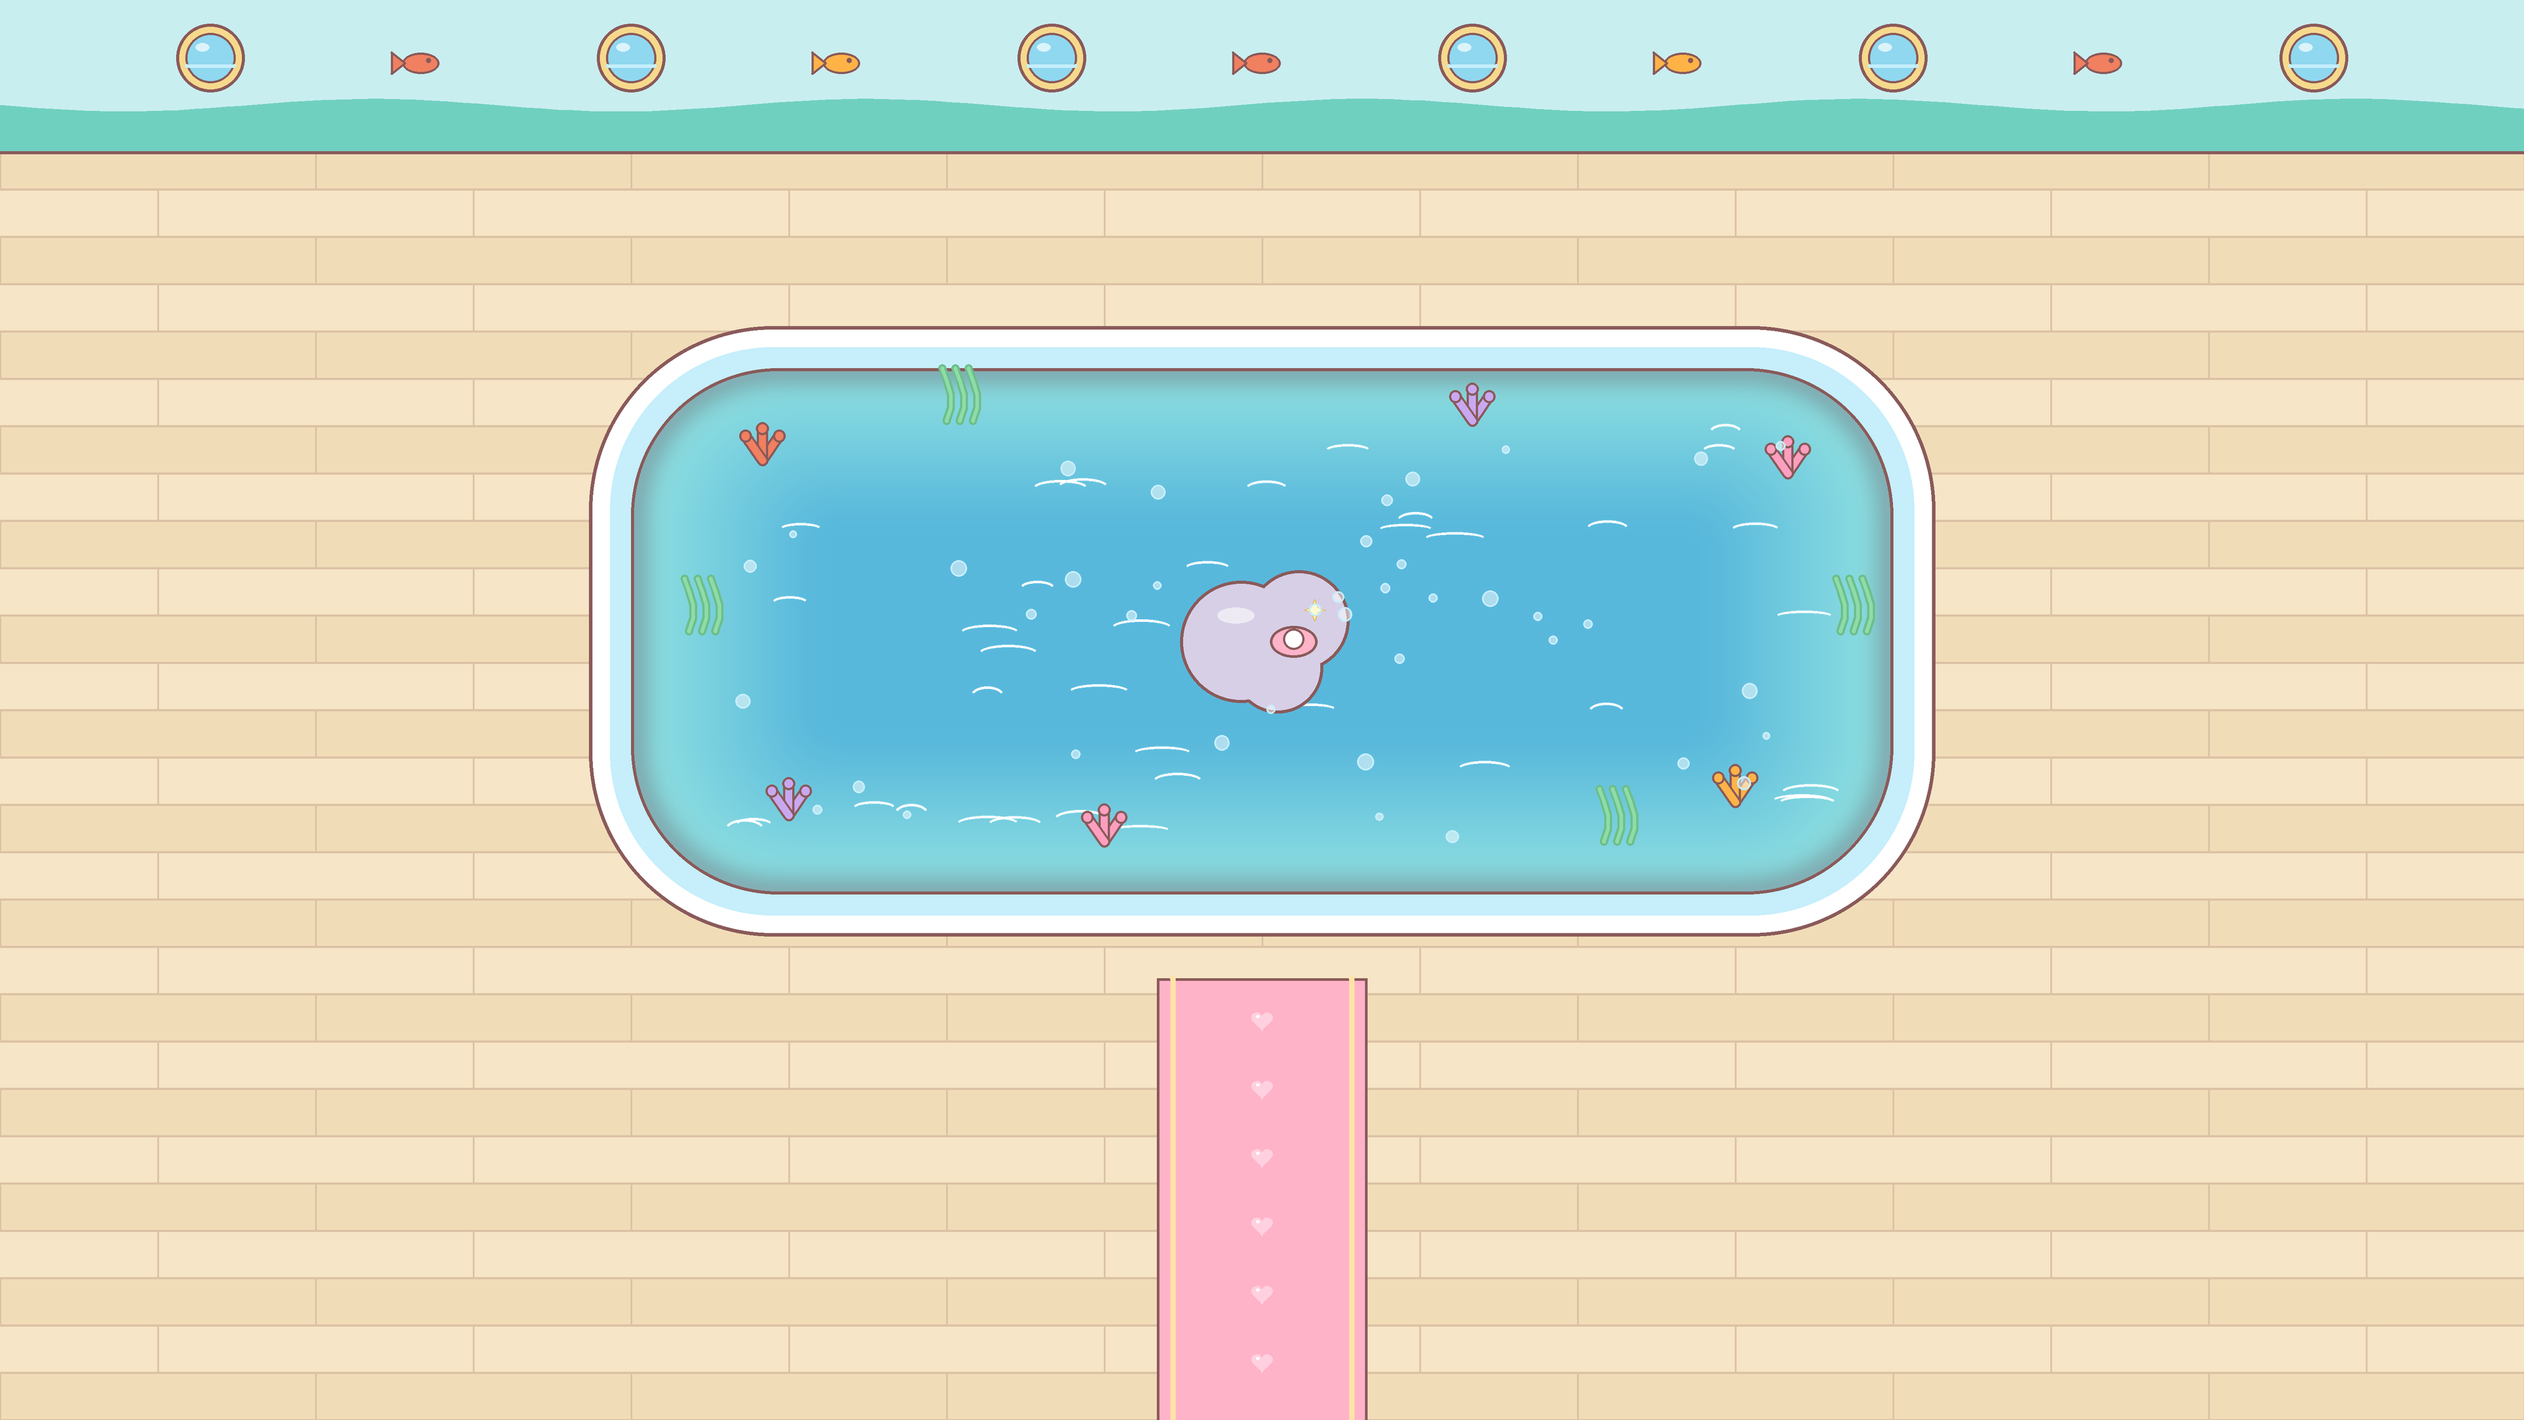
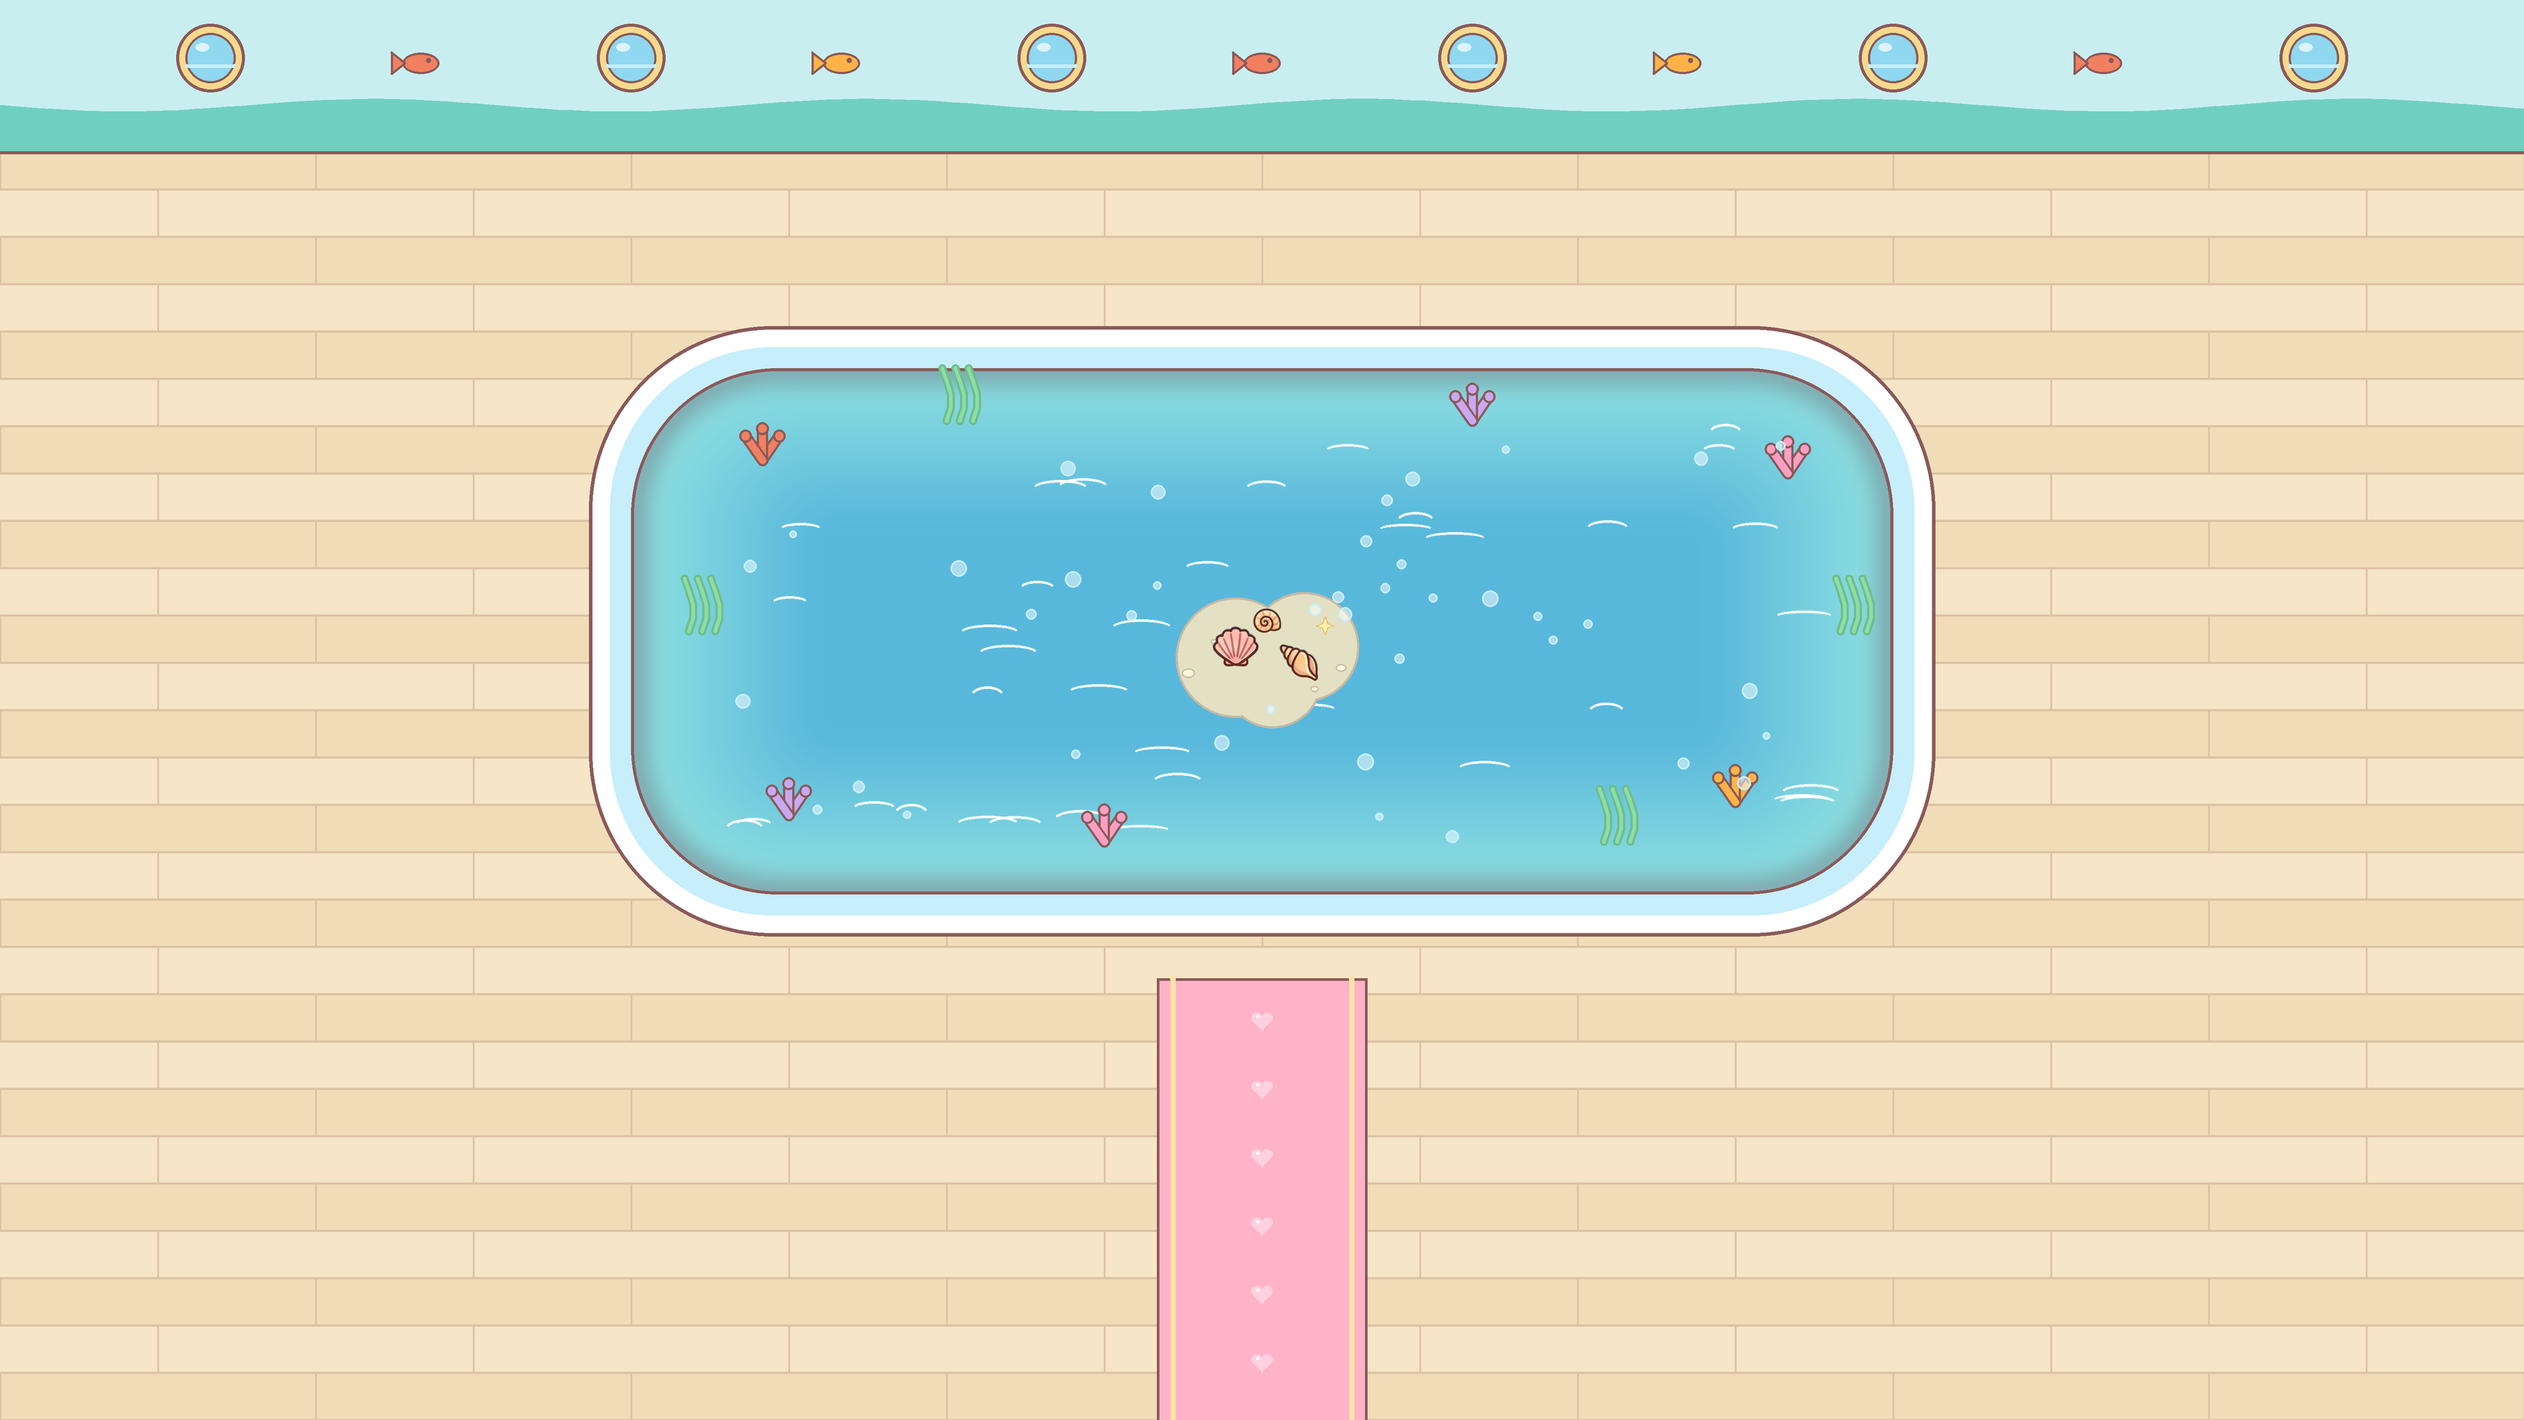
Florida water: the beach surf is an animated sheet (sea_foam, 6 frames, foam line and wash lapping over the wet sand, dock cut out) played over the background; the aquarium pool's lavender blob is replaced by a sand patch holding the canon shells cut at sheet resolution (florida_draw.canon_prop)

Changed region(s): [[0.4688, 0.4032, 0.5625, 0.5273]]

diff --git a/tools/gen_florida_art.py b/tools/gen_florida_art.py
@@ -25,6 +25,13 @@ Outputs, all in project/assets/florida/:
   fish.png + fish.tres: frame 16x12 world px (64x48 texture); rows 0 coral, 1 mango, 2 lilac; columns 0-2 swim
       (tail wiggle), 3 fin wave. Animations swim_<colour> (frames 0,1,2,1 at 5 fps) and
       wave_<colour> (frames 3,0 at 2 fps). Faces right; anchor: frame centre.
+  sea_foam.png + sea_foam.tres: the beach's surf line, animated. Frame 960x120 world px
+      (3840x480 texture), one frame per row, rows 0-5 (one column); animation "lap" plays
+      rows 0-5 at 5 fps, looping: the foam line and a turquoise wash slide up to 7 world px
+      over the wet sand and back. Placed at world (0, 180) over bg_florida_beach, top-left
+      anchor; the dock is cut out so its posts stay on top.
+The aquarium pool's floor shows the canon shells (project/data/florida_canon.json 'props',
+cut at full resolution through tools/cut_island_props.py) on a little sand patch.
 """
 import json
 import math
@@ -690,13 +697,56 @@ def wavy(y0, amp, period, phase, x0=-10, x1=970, step=6):
             for x in range(x0, x1 + 1, step)]
 
 
+DOCK = (588, 624, 96, 284)  # x0, x1, top, bottom of the beach dock (world px)
+
+
+def beach_shore():
+    """The beach's water line, pulled up on the right where the aquarium stands on its sandy point."""
+    return [(x, y - 60 * min(1, max(0, (x - 760) / 80))) for x, y in wavy(268, 6, 220, 0.6)]
+
+
+FOAM_Y, FOAM_H, FOAM_FRAMES = 180, 120, 6
+
+
+def sea_foam_sheet():
+    """The surf on the beach: per frame the foam line and a turquoise wash sit d world px further
+    up the wet sand (d eases 0 -> 7 -> 0 over the loop), with a lighter second wave behind."""
+    shore = beach_shore()
+    back = wavy(262, 5, 180, 2.0, -10, 760)
+    fw, fh = 960 * fd.D, FOAM_H * fd.D
+    sheet = Image.new("RGBA", (fw, fh * FOAM_FRAMES))
+    dx0, dx1, dtop, dbot = DOCK
+    for k in range(FOAM_FRAMES):
+        rnd = random.Random(700 + k)
+        d = 7 * (1 - math.cos(2 * math.pi * k / FOAM_FRAMES)) / 2
+        im = Image.new("RGBA", (960 * BG_S, FOAM_H * BG_S))
+        p = Pen(im, BG_S, oy=-FOAM_Y)
+        edge = [(x, y + d) for x, y in shore]
+        p.poly([(x, y + 2) for x, y in shore] + list(reversed(edge)), fd.alpha("#9be6d6", 0x9a), 0)
+        p.line(edge, fd.alpha("#bfeee4", 0xe0), 6)
+        p.line([(x, y - 1) for x, y in edge], WHITE, 3.4)
+        for x, y in edge[::5]:
+            p.ell(x + rnd.uniform(-2, 2), y + 1, rnd.uniform(3, 5), 1.6, WHITE, 0)
+        for x, y in edge[2::9]:
+            p.ell(x, y - 3, 0.9, 0.9, fd.alpha(WHITE, 0xc0), 0)
+        p.line([(x, y - 9 + d * 0.5) for x, y in back], fd.alpha(WHITE, 0x90), 1.4)
+        # the dock stays on top: clear its planks and post tops from the strip
+        cp = Pen(im, BG_S, oy=-FOAM_Y)
+        cp.rect(dx0 - 0.6, FOAM_Y - 10, dx1 + 0.6, dbot + 0.6, (0, 0, 0, 0), 2, 0)
+        for y in range(dtop + 4, dbot, 36):
+            for x in (dx0 + 1, dx1 - 1):
+                cp.ell(x, y, 3.8, 3.8, (0, 0, 0, 0), 0)
+        sheet.alpha_composite(im.resize((fw, fh), Image.LANCZOS), (0, k * fh))
+    fd.save(sheet, "sea_foam")
+    fd.write_frames("sea_foam", 960, FOAM_H, [("lap", 0, [(0, r) for r in range(FOAM_FRAMES)], 5, True)])
+
+
 def beach_bg():
     """Sea across the top (deep blue to turquoise shallows), foam, wet sand, warm dry sand with
     starfish and shells, two towels, the dock out into the water, footprints, dune grass."""
     rnd = random.Random(101)
     g = Ground(fd.SAND)
-    # the shoreline, pulled up on the right where the aquarium stands on its sandy point
-    shore = [(x, y - 60 * min(1, max(0, (x - 760) / 80))) for x, y in wavy(268, 6, 220, 0.6)]
+    shore = beach_shore()
     bands = [(0, "#7ec3e6"), (70, "#88cdea"), (140, "#8fd6e8"), (200, "#86dccf"), (240, "#9be6d6")]
     sea = Image.new("RGBA", g.im.size)
     sp = Pen(sea, BG_S)
@@ -718,13 +768,9 @@ def beach_bg():
             p.sparkle(x, y, rnd.uniform(1.6, 2.8), WHITE, None)
     wet = [(x, y + 16) for x, y in shore]
     p.poly(shore + list(reversed(wet)), "#f3d9a6", 0)
-    p.line(shore, "#bfeee4", 7)
-    p.line([(x, y - 1) for x, y in shore], WHITE, 3.4)
-    for x, y in shore[::5]:
-        p.ell(x, y + 1, rnd.uniform(3, 5), 1.6, WHITE, 0)
-    p.line([(x, y - 9) for x, y in wavy(262, 5, 180, 2.0, -10, 760)], fd.alpha(WHITE, 0x90), 1.4)
+    p.line(shore, "#bfeee4", 7)  # the water's edge; the foam on it is the sea_foam sheet
     # the dock: planks on posts out into the water, where the Father ties up
-    dx0, dx1, dtop = 588, 624, 96
+    dx0, dx1, dtop, _ = DOCK
     for y in (110, 160, 210, 250):
         for x in (dx0 + 2, dx1 - 2):
             p.ell(x, y + 8, 3.4, 2.2, fd.alpha("#5f97b8", 0x80), 0)
@@ -807,7 +853,7 @@ POOL = (240, 140, 720, 340)  # the show pool, also used by the aquarium scene's 
 def aquarium_bg():
     """The aquarium show room seen from above: a pale boardwalk floor, the back wall with
     portholes onto the sea, and the big round-cornered show pool in the middle where the
-    mermaids swim (turquoise water, light ripples, coral and sea grass, a rock with a pearl)."""
+    mermaids swim (turquoise water, light ripples, coral and sea grass, canon shells on a sand patch)."""
     rnd = random.Random(303)
     g = Ground("#f4e3c6")
     p = g.p
@@ -848,7 +894,7 @@ def aquarium_bg():
     for _ in range(40):  # light ripples
         x, y = rnd.uniform(x0 + 30, x1 - 30), rnd.uniform(y0 + 20, y1 - 20)
         p.arc(x, y, rnd.uniform(6, 12), rnd.uniform(2, 3.5), 200, 340, fd.alpha(WHITE, 0x90), 1.0)
-    # coral and sea grass along the pool's floor edge, a rock with a pearl in the middle
+    # coral and sea grass along the pool's floor edge
     for x, y, col in ((290, 175, fd.CORAL), (680, 180, "#ff9fc0"), (300, 310, "#c9a8f0"), (660, 305, fd.MANGO),
                       (420, 320, "#ff9fc0"), (560, 160, "#c9a8f0")):
         for a in (-50, -90, -130):
@@ -862,11 +908,18 @@ def aquarium_bg():
             pts = [(x + k * 5 + math.sin(j) * 2, y - j * 5) for j in range(5)]
             p.line(pts, "#6cbf8a", 3)
             p.line(pts, "#8fdca8", 1.4)
-    p.blob([(472, 244, 22), (494, 236, 18), (486, 254, 16)], "#d7cfe6", 1.2)
-    p.ell(470, 234, 7, 3, fd.alpha(WHITE, 0x90), 0)
-    p.ell(492, 244, 9, 6, "#ffb3c8", 1.0)  # an open clam with a pearl
-    p.ell(492, 243, 4, 4, WHITE, 0.8)
-    p.sparkle(500, 232, 4, fd.SPARK, fd.GOLD)
+    # a little sand patch on the pool floor with the canon shells from the tide scroll
+    patch = mix("#f6e6c0", "#58b8dc", 0.12)
+    p.blob([(470, 250, 22), (496, 246, 20), (484, 258, 18)], patch, 0.8, mix(patch, INK, 0.3))
+    for x, y, r in ((452, 256, 2.4), (510, 254, 2.0), (500, 262, 1.6), (462, 244, 1.4)):
+        p.ell(x, y, r, r * 0.7, "#fff4dc", 0.5, mix(patch, INK, 0.3))
+    for name, cx, cy, wide in (("shell_scallop", 470, 246, 18), ("shell_conch", 494, 252, 15),
+                               ("shell_spiral", 482, 236, 11)):
+        sh = fd.canon_prop(name)
+        sw = round(wide * BG_S)
+        sh = sh.resize((sw, round(sh.height * sw / sh.width)), Image.LANCZOS)
+        g.im.alpha_composite(sh, (round(cx * BG_S - sh.width / 2), round(cy * BG_S - sh.height / 2)))
+    p.sparkle(504, 238, 3.2, fd.SPARK, fd.GOLD)
     for _ in range(40):
         r = rnd.uniform(1.4, 3.2)
         p.ell(rnd.uniform(x0 + 30, x1 - 30), rnd.uniform(y0 + 20, y1 - 20), r, r, fd.alpha(WHITE, 0x80), 0.6, "#c6eefb")
@@ -945,6 +998,7 @@ def main():
     prop("craft_bench", 52, 30, craft_bench)
     fish_sheet()
     beach_bg()
+    sea_foam_sheet()
     garden_bg()
     aquarium_bg()
     stable_bg()

diff --git a/tools/florida_draw.py b/tools/florida_draw.py
@@ -248,6 +248,14 @@ def canon_base(name):
     return cut(cfg["bases"][name])
 
 
+def canon_prop(name):
+    """A canon cut listed under 'props' in project/data/florida_canon.json, cut straight from its
+    sheet at full resolution by tools/cut_island_props.py (no prior cut run needed)."""
+    from cut_island_props import cut
+    cfg = json.loads((ROOT / "project/data/florida_canon.json").read_text())
+    return cut(cfg["props"][name])
+
+
 def canon_sprite(name):
     return Image.open(ROOT / f"project/assets/canon/{name}.png").convert("RGBA")
 
@@ -255,13 +263,15 @@ def canon_sprite(name):
 def write_frames(name, fw, fh, anims):
     """Write project/assets/florida/<name>.tres: a SpriteFrames over <name>.png.
     fw, fh: the frame size in world px (the sheet holds frames of fw*D x fh*D texture px).
-    anims: list of (anim_name, row, columns, fps, loop)."""
+    anims: list of (anim_name, row, columns, fps, loop); a column given as a (column, row) pair
+    takes that frame from another row (for sheets stacked one frame per row)."""
     fw, fh = round(fw * D), round(fh * D)
     lines, subs, frames_by_anim = [], [], []
     n = 0
-    for anim, row, cols, fps, loop in anims:
+    for anim, anim_row, cols, fps, loop in anims:
         refs = []
         for c in cols:
+            c, row = c if isinstance(c, tuple) else (c, anim_row)
             n += 1
             sid = f"f{n}"
             subs.append(f'[sub_resource type="AtlasTexture" id="{sid}"]\natlas = ExtResource("1")\n'

diff --git a/project/assets/ASSETS.md b/project/assets/ASSETS.md
@@ -19,8 +19,8 @@ the file. Sorted by path.
 | project/assets/florida/acc_flower_crown.png | acc_flower_crown | tools/gen_florida_wearables.py (on the canon paper-doll frame) | still, 721x760 canon paper-doll frame (sheet resolution) | - |
 | project/assets/florida/acc_plumeria_lei.png | acc_plumeria_lei | tools/gen_florida_wearables.py (on the canon paper-doll frame) | still, 721x760 canon paper-doll frame (sheet resolution) | - |
 | project/assets/florida/acc_shell_garland.png | acc_shell_garland | tools/gen_florida_wearables.py (on the canon paper-doll frame) | still, 721x760 canon paper-doll frame (sheet resolution) | - |
-| project/assets/florida/bg_florida_aquarium.png | bg_florida_aquarium | tools/gen_florida_art.py | still, 4 texture px per world px; scenes scale 0.25 | - |
-| project/assets/florida/bg_florida_beach.png | bg_florida_beach | tools/gen_florida_art.py | still, 4 texture px per world px; scenes scale 0.25 | - |
+| project/assets/florida/bg_florida_aquarium.png | bg_florida_aquarium | tools/gen_florida_art.py (pool floor shells: canon shell_scallop/conch/spiral from project/data/florida_canon.json, cut at sheet resolution) | still, 4 texture px per world px; scenes scale 0.25 | - |
+| project/assets/florida/bg_florida_beach.png | bg_florida_beach | tools/gen_florida_art.py | still, 4 texture px per world px; scenes scale 0.25; the surf on its water line is sea_foam | - |
 | project/assets/florida/bg_florida_garden.png | bg_florida_garden | tools/gen_florida_art.py | still, 4 texture px per world px; scenes scale 0.25 | - |
 | project/assets/florida/bg_florida_stable.png | bg_florida_stable | tools/gen_florida_art.py | still, 4 texture px per world px; scenes scale 0.25 | - |
 | project/assets/florida/crab.png (+ crab.tres) | crab | tools/gen_florida_critters.py | 24x18 world px (96x72 texture); row 0 idle, row 1 walk, 4 cols; .tres idle/walk; .tres metadata display_scale 0.25 | - |
@@ -87,6 +87,7 @@ the file. Sorted by path.
 | project/assets/florida/prop_tree_mango.png | prop_tree_mango | tools/gen_florida_art.py | still, 4 texture px per world px; scenes scale 0.25 | - |
 | project/assets/florida/prop_trough.png | prop_trough | tools/gen_florida_art.py | still, 4 texture px per world px; scenes scale 0.25 | - |
 | project/assets/florida/prop_umbrella.png | prop_umbrella | tools/gen_florida_art.py | still, 4 texture px per world px; scenes scale 0.25 | - |
+| project/assets/florida/sea_foam.png (+ sea_foam.tres) | sea_foam | tools/gen_florida_art.py | sheet, frame 960x120 world px (3840x480 texture), one frame per row, rows 0-5; .tres lap (rows 0-5 at 5 fps, loop), metadata display_scale 0.25; AnimatedSprite2D at world (0, 180) in beach.tscn, top-left anchor, scale 0.25 | - |
 | project/assets/florida/seed_bag.png | seed_bag | tools/gen_florida_art.py | still, 4 texture px per world px; scenes scale 0.25 | - |
 | project/assets/florida/shell_conch.png | shell_conch | tools/cut_island_props.py project/data/florida_canon.json (canon tide scroll, sheet 481b) | still, canon sheet resolution; shown 11 world px tall | - |
 | project/assets/florida/shell_scallop.png | shell_scallop | tools/cut_island_props.py project/data/florida_canon.json (canon tide scroll, sheet 481b) | still, canon sheet resolution; shown 11 world px tall | - |
